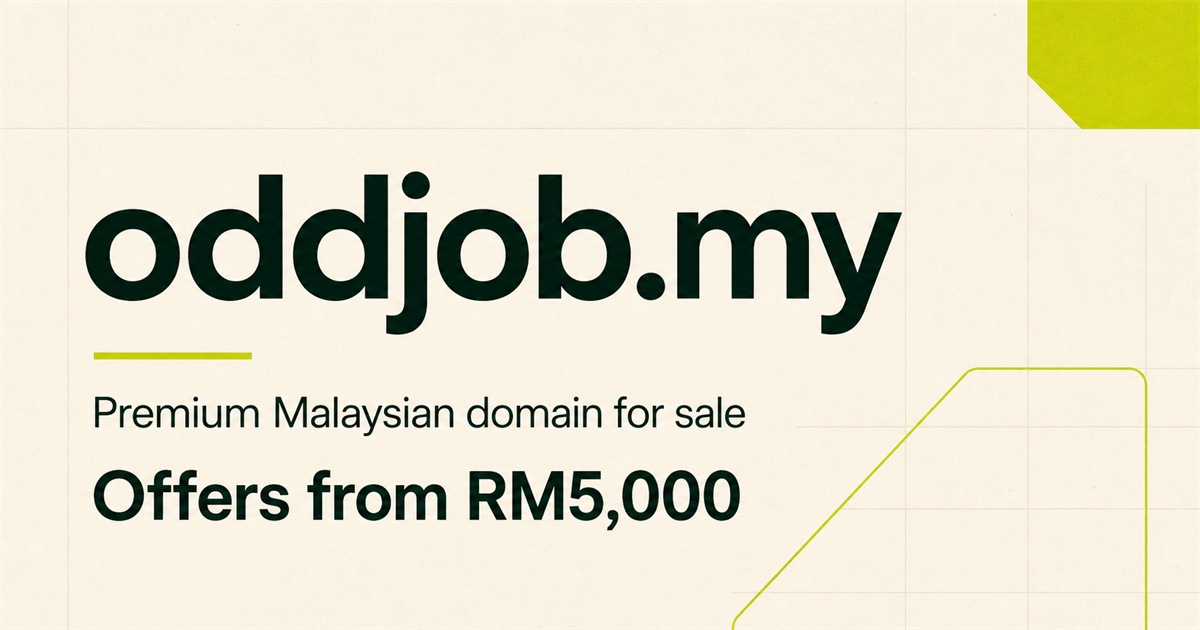
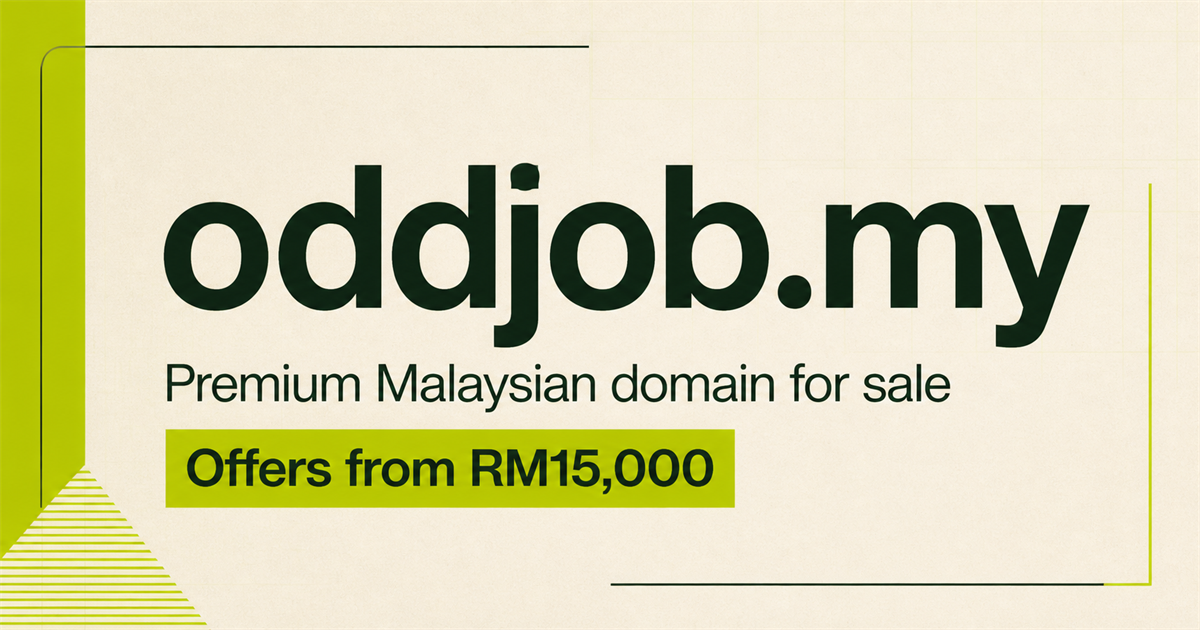
Raise oddjob.my asking price to RM15K

diff --git a/app/layout.tsx b/app/layout.tsx
@@ -16,7 +16,7 @@ export const metadata: Metadata = {
   metadataBase: new URL('https://oddjob.my'),
   title: 'oddjob.my — Premium Malaysian Domain for Sale',
   description:
-    'oddjob.my is available for acquisition from RM5,000. Contact the owner directly by phone or WhatsApp.',
+    'oddjob.my is available for acquisition from RM15,000. Contact the owner directly by phone or WhatsApp.',
   alternates: {
     canonical: '/',
   },
@@ -26,20 +26,20 @@ export const metadata: Metadata = {
     url: '/',
     siteName: 'oddjob.my',
     title: 'oddjob.my — Premium Malaysian Domain for Sale',
-    description: 'A short, direct .my domain available from RM5,000.',
+    description: 'A short, direct .my domain available from RM15,000.',
     images: [
       {
         url: '/og.png',
         width: 1200,
         height: 630,
-        alt: 'oddjob.my — Premium Malaysian domain for sale, offers from RM5,000',
+        alt: 'oddjob.my — Premium Malaysian domain for sale, offers from RM15,000',
       },
     ],
   },
   twitter: {
     card: 'summary_large_image',
     title: 'oddjob.my — Premium Malaysian Domain for Sale',
-    description: 'A short, direct .my domain available from RM5,000.',
+    description: 'A short, direct .my domain available from RM15,000.',
     images: ['/og.png'],
   },
 };

diff --git a/app/page.tsx b/app/page.tsx
@@ -139,7 +139,7 @@ export default function Home() {
                 <div className="flex flex-col justify-between gap-5 sm:flex-row sm:items-end">
                   <div>
                     <p className="text-xs font-bold uppercase tracking-[0.16em] text-white/45">Offers from</p>
-                    <p className="mt-1 text-4xl font-black tracking-[-0.055em]">RM5,000</p>
+                    <p className="mt-1 text-4xl font-black tracking-[-0.055em]">RM15,000</p>
                   </div>
                   <a href={phoneHref} className="group inline-flex items-center gap-2 text-sm font-bold text-[var(--signal)]">
                     Speak to the owner
